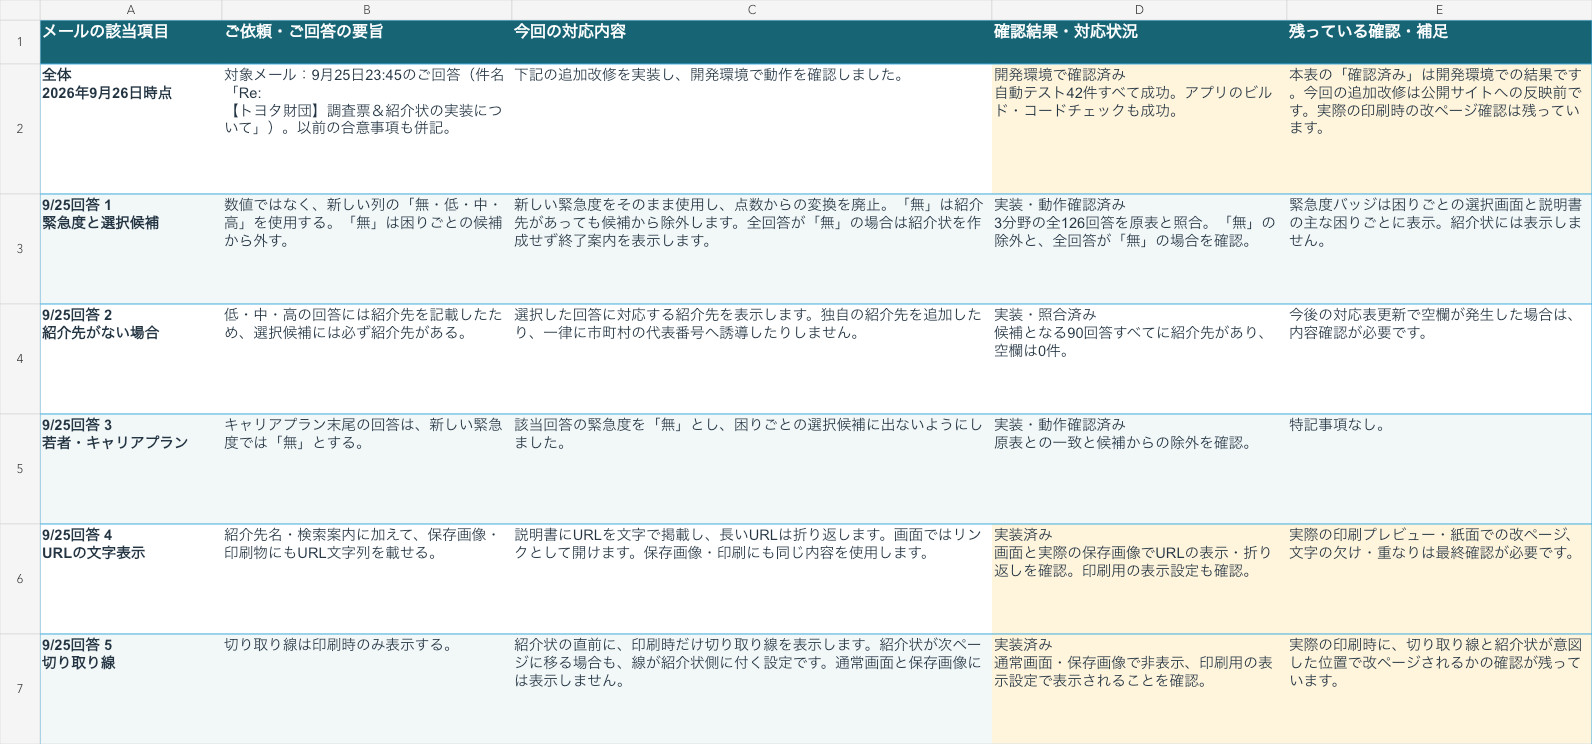
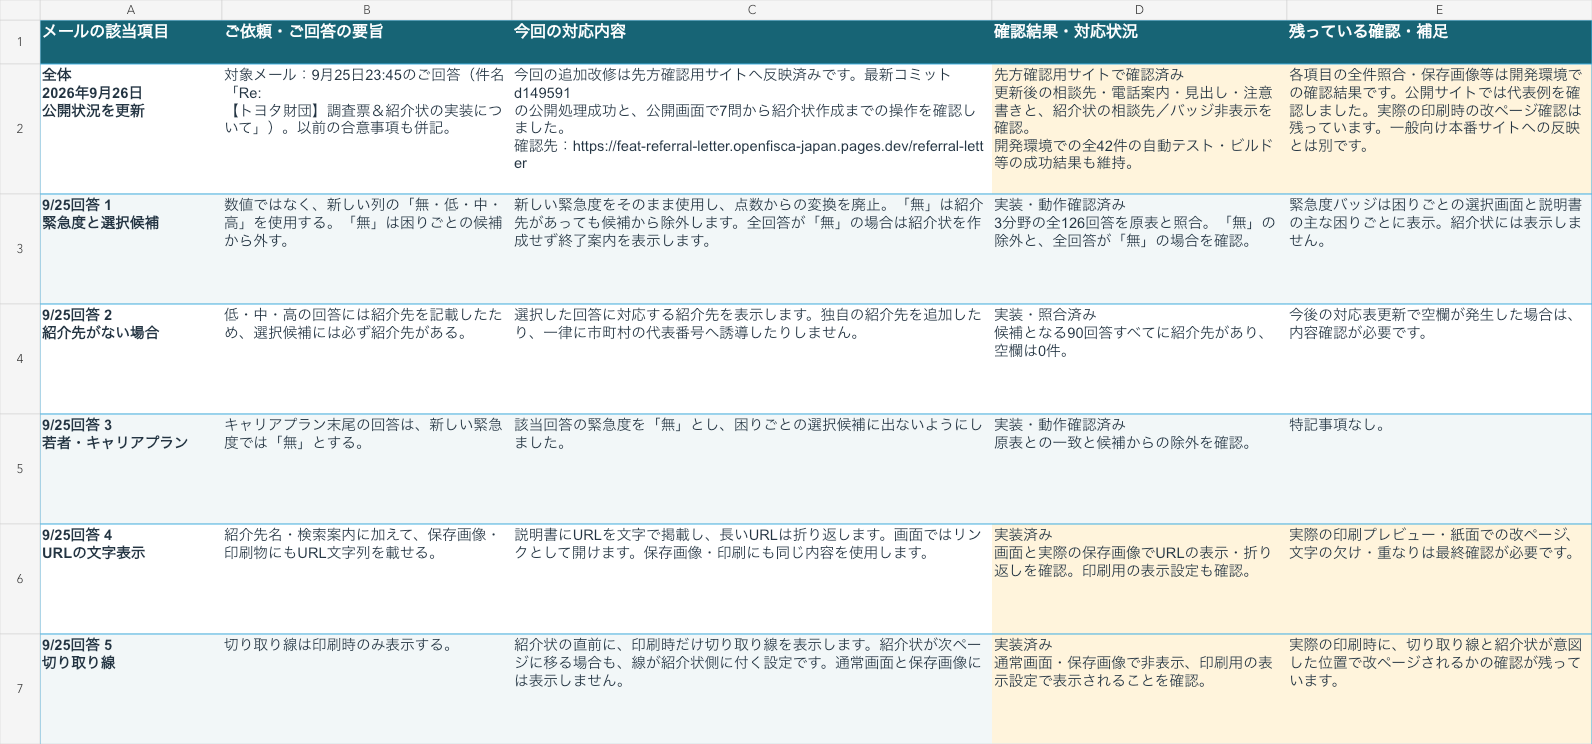
Add safe print margins and update published status

Changed region(s): [[0.3078, 0.0927, 1.0, 0.2473], [0.0308, 0.1237, 0.1231, 0.1546]]

diff --git a/dashboard/src/components/referral-letter/print.css b/dashboard/src/components/referral-letter/print.css
@@ -53,8 +53,10 @@
     position: absolute;
     inset: 0 auto auto 0;
     width: 100%;
+    box-sizing: border-box;
     margin: 0;
-    padding: 0;
+    /* Keep a safe inset even when the print dialog uses no page margins. */
+    padding: 0 10mm;
     background: #fff !important;
     color: #000;
     -webkit-print-color-adjust: exact;
